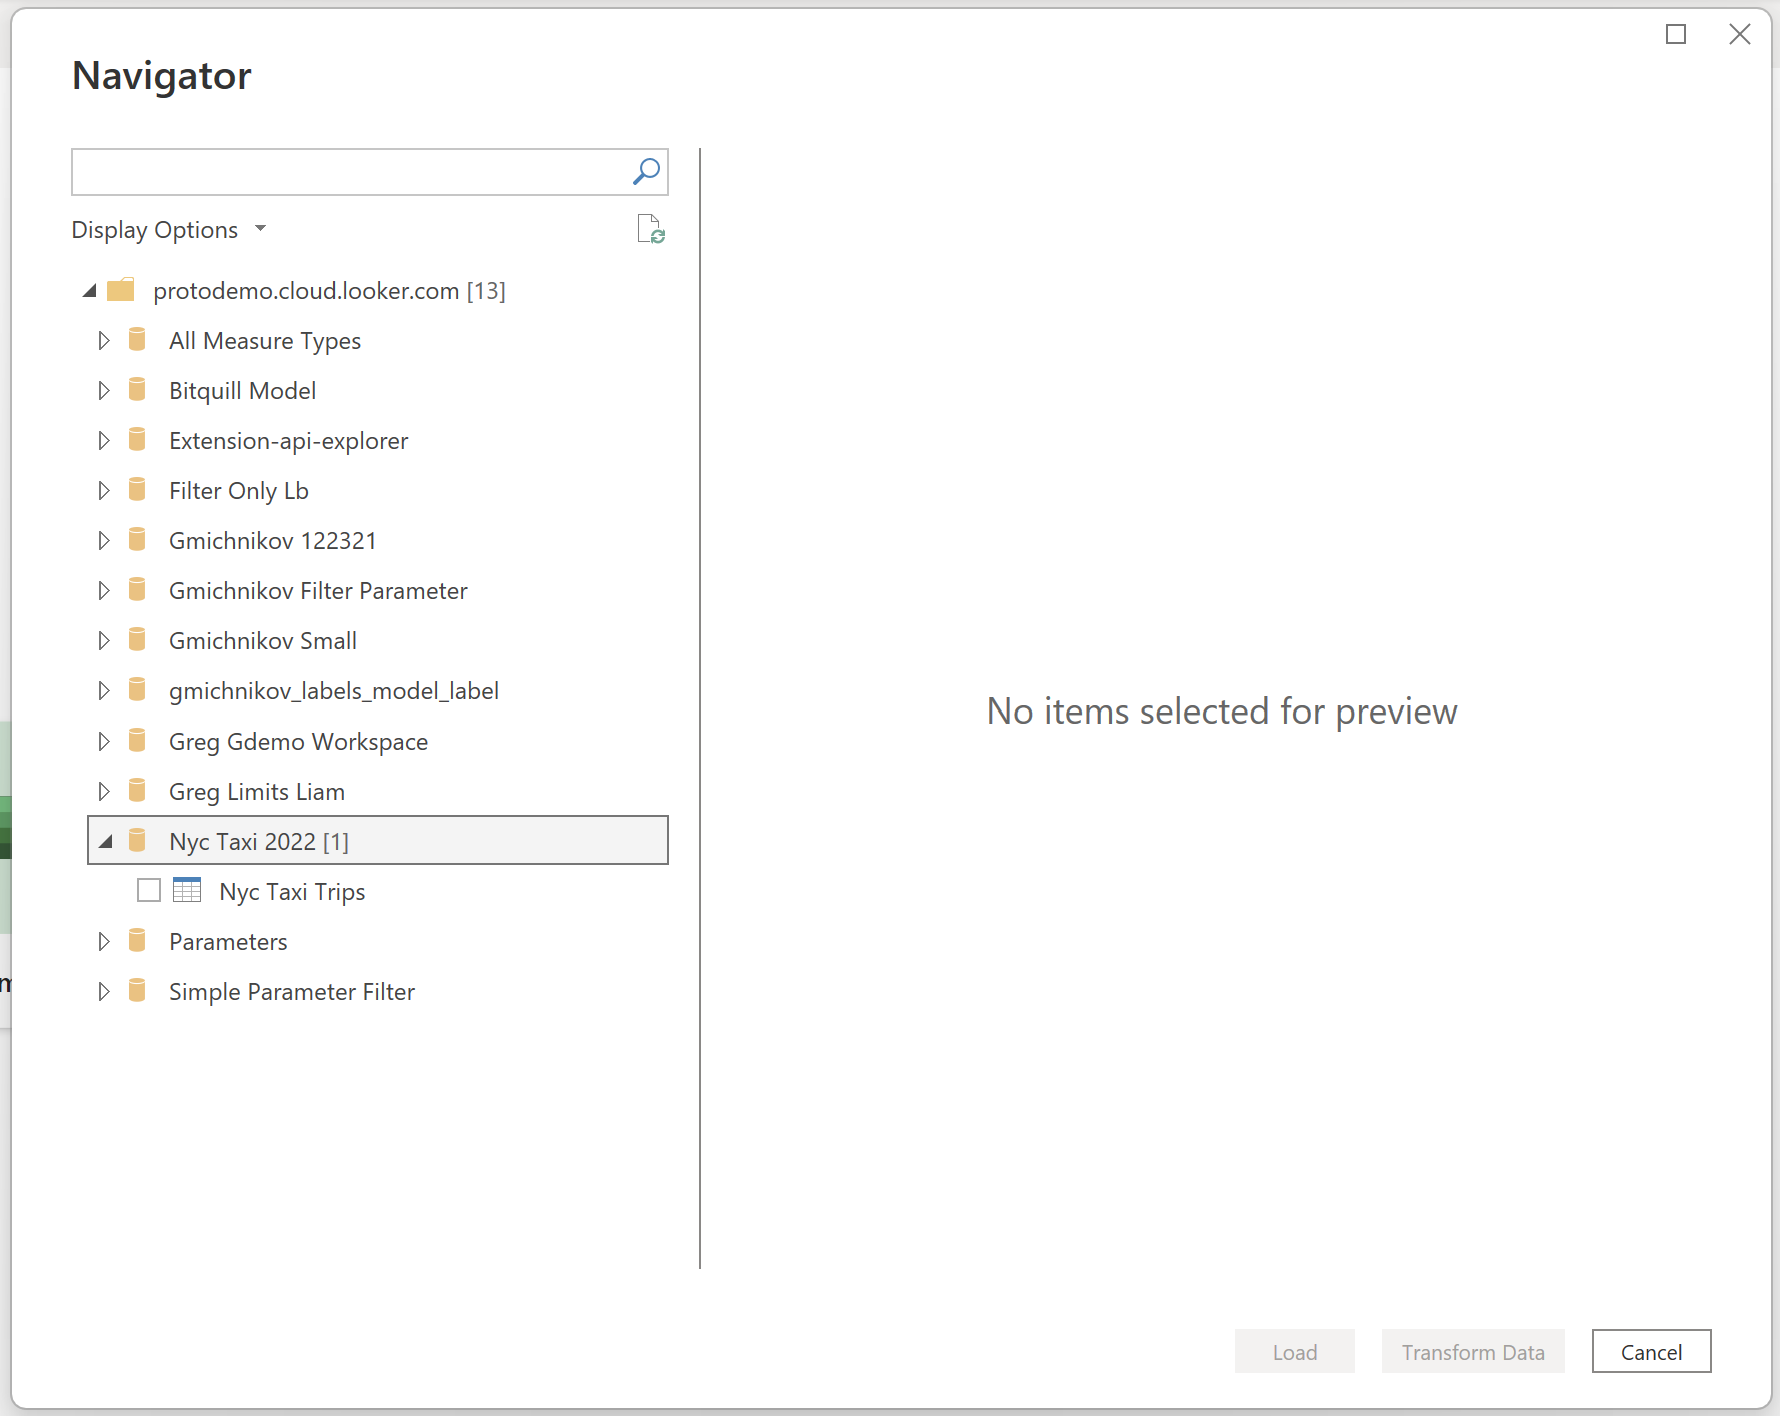
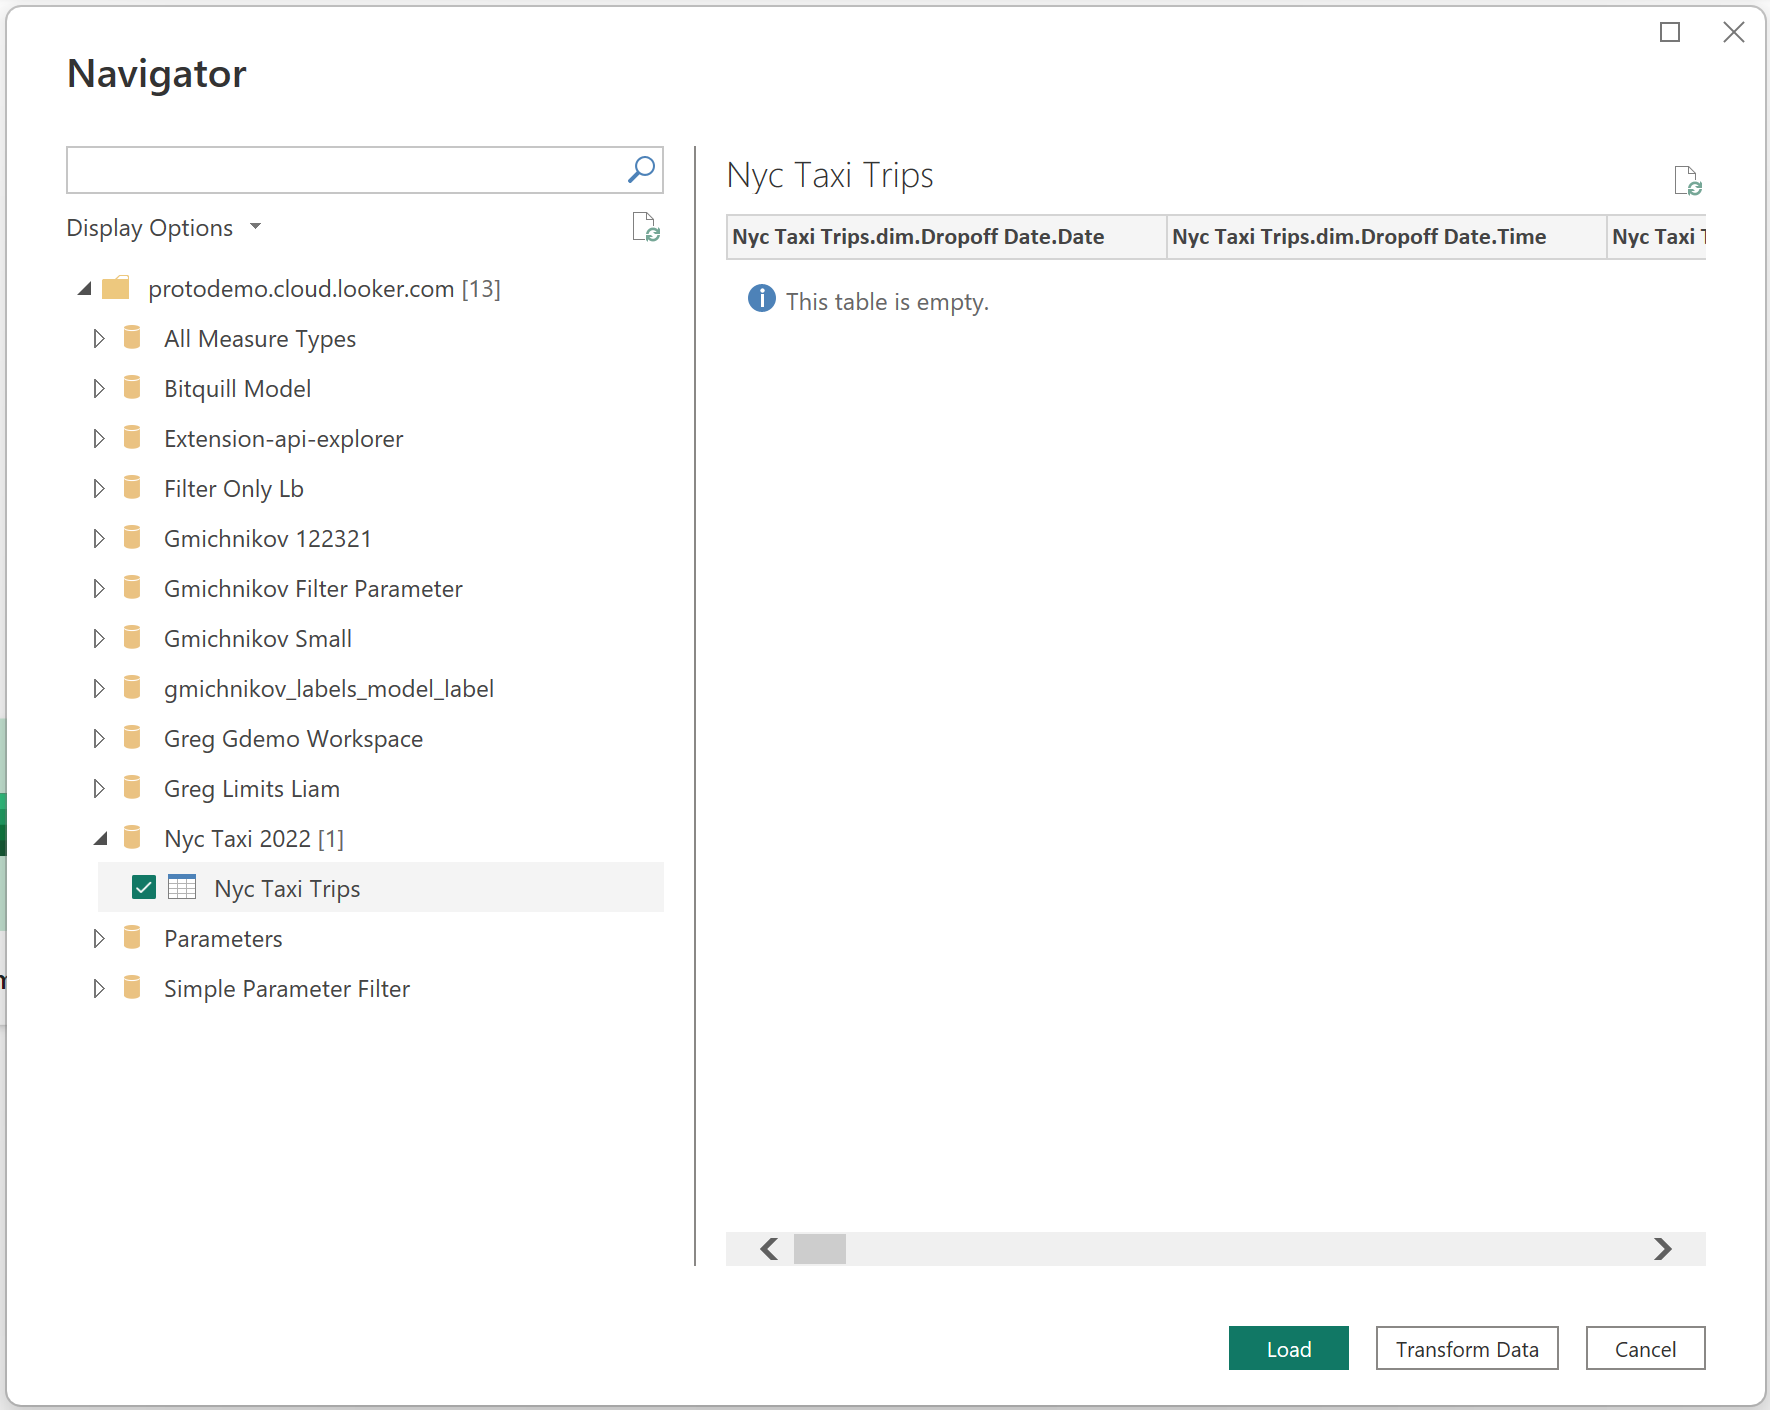
added comment for "This table is empty message"

diff --git a/powerquery-docs/connectors/google-looker.md b/powerquery-docs/connectors/google-looker.md
@@ -41,27 +41,30 @@ To connect to Looker from Power Query Desktop, follow these steps:
 
 1. In the **Get Data** experience, search for and select **Looker**.
 
-2. In **Host**, enter your Looker instance URL, for example, https://example.cloud.looker.com.
+1. In **Host**, enter your Looker instance URL, for example, https://example.cloud.looker.com.
 
-3. The default value of **Disable Preview Optimization** if left blank is True. This is the recommended setting. Setting the value to False will result in a potentially expensive preview query being sent to Looker. Read more in the [Looker documentation](https://cloud.google.com/looker/docs/powerbi-connector#preview_optimization).
+1. The default value of **Disable Preview Optimization** if left blank is True. This is the recommended setting. Setting the value to False will result in a potentially expensive preview query being sent to Looker. Read more in the [Looker documentation](https://cloud.google.com/looker/docs/powerbi-connector#preview_optimization).
 
-4. The default value of **Show Hidden Fields** if left blank is False. This will mimic the default visual behavior on Looker where fields with the hidden tag will not be shown. If this parameter is set to True, all fields will be visible in the Power BI report, including those with hidden tags.
+1. The default value of **Show Hidden Fields** if left blank is False. This will mimic the default visual behavior on Looker where fields with the hidden tag will not be shown. If this parameter is set to True, all fields will be visible in the Power BI report, including those with hidden tags.
 
-5. Select **Direct Query**. Selecting Import may also result in a potentially expensive query that includes all fields from all the views that are referenced in the Looker Explore. In addition, with Import, you lose the ability to have Looker correctly evaluate the measures in the Explore.
+1. Select **Direct Query**. Selecting Import may also result in a potentially expensive query that includes all fields from all the views that are referenced in the Looker Explore. In addition, with Import, you lose the ability to have Looker correctly evaluate the measures in the Explore.
 
-6. Select **OK** to continue.
+1. Select **OK** to continue.
 
-    ![Image showing initial dialog box](./media/google-looker/host-connection-filled-desktop.png)
+   ![Image showing initial dialog box](./media/google-looker/host-connection-filled-desktop.png)
 
-7. The Looker connector supports connecting using an Organizational account. You will use your existing Looker credentials. Select **Sign In** to continue.
+1. The Looker connector supports connecting using an Organizational account. You will use your existing Looker credentials. Select **Sign In** to continue.
 
-8. The traditional Looker login screen appears. Sign in the same way you would normally log in to Looker.
+1. The traditional Looker login screen appears. Sign in the same way you would normally log in to Looker.
 
-9. Once you're signed in, select **Connect** to continue.
+1. Once you're signed in, select **Connect** to continue.
 
-10. Once you successfully connect, a **Navigator** window appears and displays the data available in your Looker instance. First, select a Looker model. Within each model, you will see the available Explores. Select the Explore that you would like to connect to, and click **Load**.
+1. Once you successfully connect, a **Navigator** window appears and displays the data available in your Looker instance. First, select a Looker model. Within each model, you will see the available Explores. Select the Explore that you would like to connect to, and click **Load**.
 
-    ![Image showing navigation window](./media/google-looker/navigator-view-desktop.png)
+   ![Image showing navigation window](./media/google-looker/navigator-view-desktop.png)
+
+   > [!NOTE]
+   >The "This table is empty." message is expected, as currently no preview is available for. The table will not be empty once you load the model.
 
 ## Limitations and considerations
 
